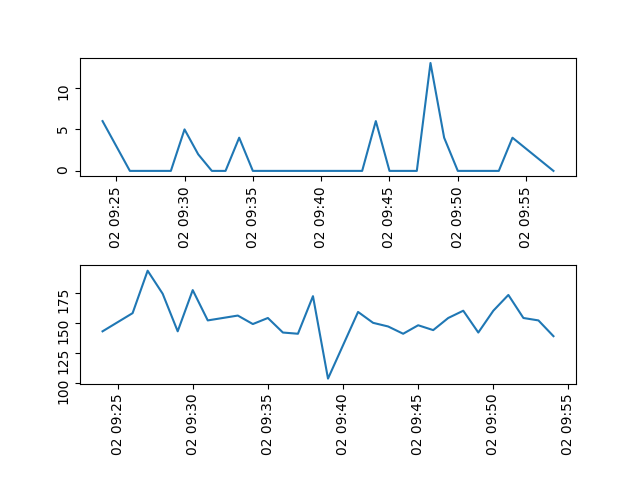
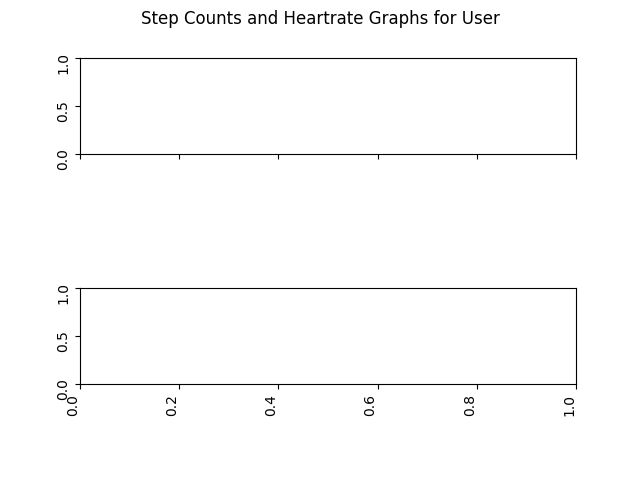
graphic display through flask url .png

diff --git a/data/untitled1.html b/data/untitled1.html
@@ -1,0 +1,3 @@
+<p>User Steps and BPM</p>
+
+<img src="/dummy_name.png" alt="Chart">

diff --git a/server.py b/server.py
@@ -1,10 +1,15 @@
 """
-run this before executing:
-ssh  -X -i "C:/Users/longl/OneDrive/lab3_cs147.pem" ubuntu@ec2-3-219-247-146.compute-1.amazonaws.com
+#run this before executing:
+#ssh  -X -i "C:/Users/longl/OneDrive/lab3_cs147.pem" ubuntu@ec2-3-219-247-146.compute-1.amazonaws.com
+
+
+open XLaunch
+start server from putty
 
 cd cs147_project
 export MPLBACKEND="agg"
 export FLASK_APP=server.py
+chmod +x data/
 python3 -m flask run --host=0.0.0.0
 
 
@@ -21,10 +26,15 @@ from flask import request
 from watchData import watchData
 
 import matplotlib
-matplotlib.use('Agg')
+#matplotlib.use('TkAgg')
 
+import io
 import matplotlib.pyplot as plt,mpld3
 import matplotlib.animation as animation
+from matplotlib.backends.backend_agg import FigureCanvasAgg as FigureCanvas
+from matplotlib.figure import Figure
+from flask import Response
+
 from stepCounter import stepCounter
 from matplotlib import style
 from fileStorage import writeDataToFile, getDataFromFile
@@ -45,9 +55,61 @@ import time
 watch = watchData()
 
 
+
+
+# *** ANIMATED GRAPH ***
+
+fig, axs = plt.subplots(2, 1)
+fig.suptitle("Step Counts and Heartrate Graphs for User")
+ax1 = axs[0]
+ax2 = axs[1]
+
+#Step Counts Graph
+# ax1 = plt.subplot(2,2,1)
+plt.gcf().autofmt_xdate()
+ax1.tick_params(rotation=90)
+
+#Heart Rate Graph
+# ax2 = plt.subplot(2,2,2)
+plt.gcf().autofmt_xdate()
+ax2.tick_params(rotation=90)
+
+plt.subplots_adjust(hspace=1.4)
+
+
+def animate(i, user='default'):
+
+	days, steps = getDataFromFile(user, 'steps')
+	currentDay = watch.getStepCounter().getCurrentDay()
+	days.append(currentDay)
+	steps.append(watch.getStepCounter().getSteps(currentDay))
+
+	ax1.clear()
+	ax1.plot(days, steps)
+	ax1.set_title("Step Counts")
+	ax1.set_xlabel("time")
+	ax1.set_ylabel("steps")
+
+	time, bpm = getDataFromFile(user, 'bpm')
+	t, b = watch.getBpmTracker().getCurrentBpm()
+	if t != None:
+		time.append(t)
+		bpm.append(b)
+
+	ax2.clear()
+	ax2.plot(time, bpm)
+	ax2.set_title("Heart Rate Graph Test")
+	ax2.set_xlabel("time")
+	ax2.set_ylabel("bpm")  
+	
+	return 0
+
+ani = animation.FuncAnimation(fig, animate, interval=1000)
+
+
+# FLASK 
+data = 'foo'
 app = Flask(__name__)
-
-
 
 @app.route("/")
 def hello():
@@ -61,68 +123,22 @@ def hello():
 		+ "bpm=" + str(bpm)
 
 
+@app.route('/plot.png')
+def chartTest():
+	animate(1000)
+	output = io.BytesIO()
+	FigureCanvas(fig).print_png(output)
+	return Response(output.getvalue(), mimetype='dummy_name.png')
 
-# *** ANIMATED GRAPH ***
+	#return render_template('untitled1.html', name = 'new_plot', url ='dummy_name.png')
 
-fig, axs = plt.subplots(2, 1)
-ax1 = axs[0]
-ax2 = axs[1]
-
-#Step Counts Graph
-# ax1 = plt.subplot(2,2,1)
-ax1.set_title("Step Counts")
-ax1.set_xlabel("day")
-ax1.set_ylabel("steps")
-plt.gcf().autofmt_xdate()
-ax1.tick_params(rotation=90)
-
-#Heart Rate Graph
-# ax2 = plt.subplot(2,2,2)
-ax2.set_title("Heart Rate Graph Test")
-ax2.set_xlabel("time")
-ax2.set_ylabel("bpm")  
-plt.gcf().autofmt_xdate()
-ax2.tick_params(rotation=90)
-
-plt.subplots_adjust(hspace=0.75)
-
-
-def animate(i, user='default'):
-
-	days, steps = getDataFromFile(user, 'steps')
-	currentDay = watch.getStepCounter().getCurrentDay()
-	days.append(currentDay)
-	steps.append(watch.getStepCounter().getSteps(currentDay))
-
-	ax1.clear()
-	ax1.plot(days, steps)
-
-	time, bpm = getDataFromFile(user, 'bpm')
-	ax2.clear()
-	ax2.plot(time, bpm)
-	t, b = watch.getBpmTracker().getCurrentBpm()
-	if t != None:
-		time.append(t)
-		bpm.append(b)
-	
-	return 0
-
-ani = animation.FuncAnimation(fig, animate, interval=1000)
+if __name__ == "__main__":
+	thread.start_new_thread(lambda: app.run())
 
 # y = threading.Thread(target=animate, args=(1,))
 # y.start()
 
 #This starts a local server that contains the graphs
-plt.show()
+plt.savefig("dummy_name.png")
 
-# def updateGraph():
-# 	while(1):
-# 		plt.savefig("dummy_name.png")
-# 		time.sleep(1)
-
-# x = threading.Thread(target=updateGraph)
-# x.start()
-
-
-# while(1):
-# 	plt.savefig("dummy_name.png")
+# http://127.0.0.1:5000/plot.png
